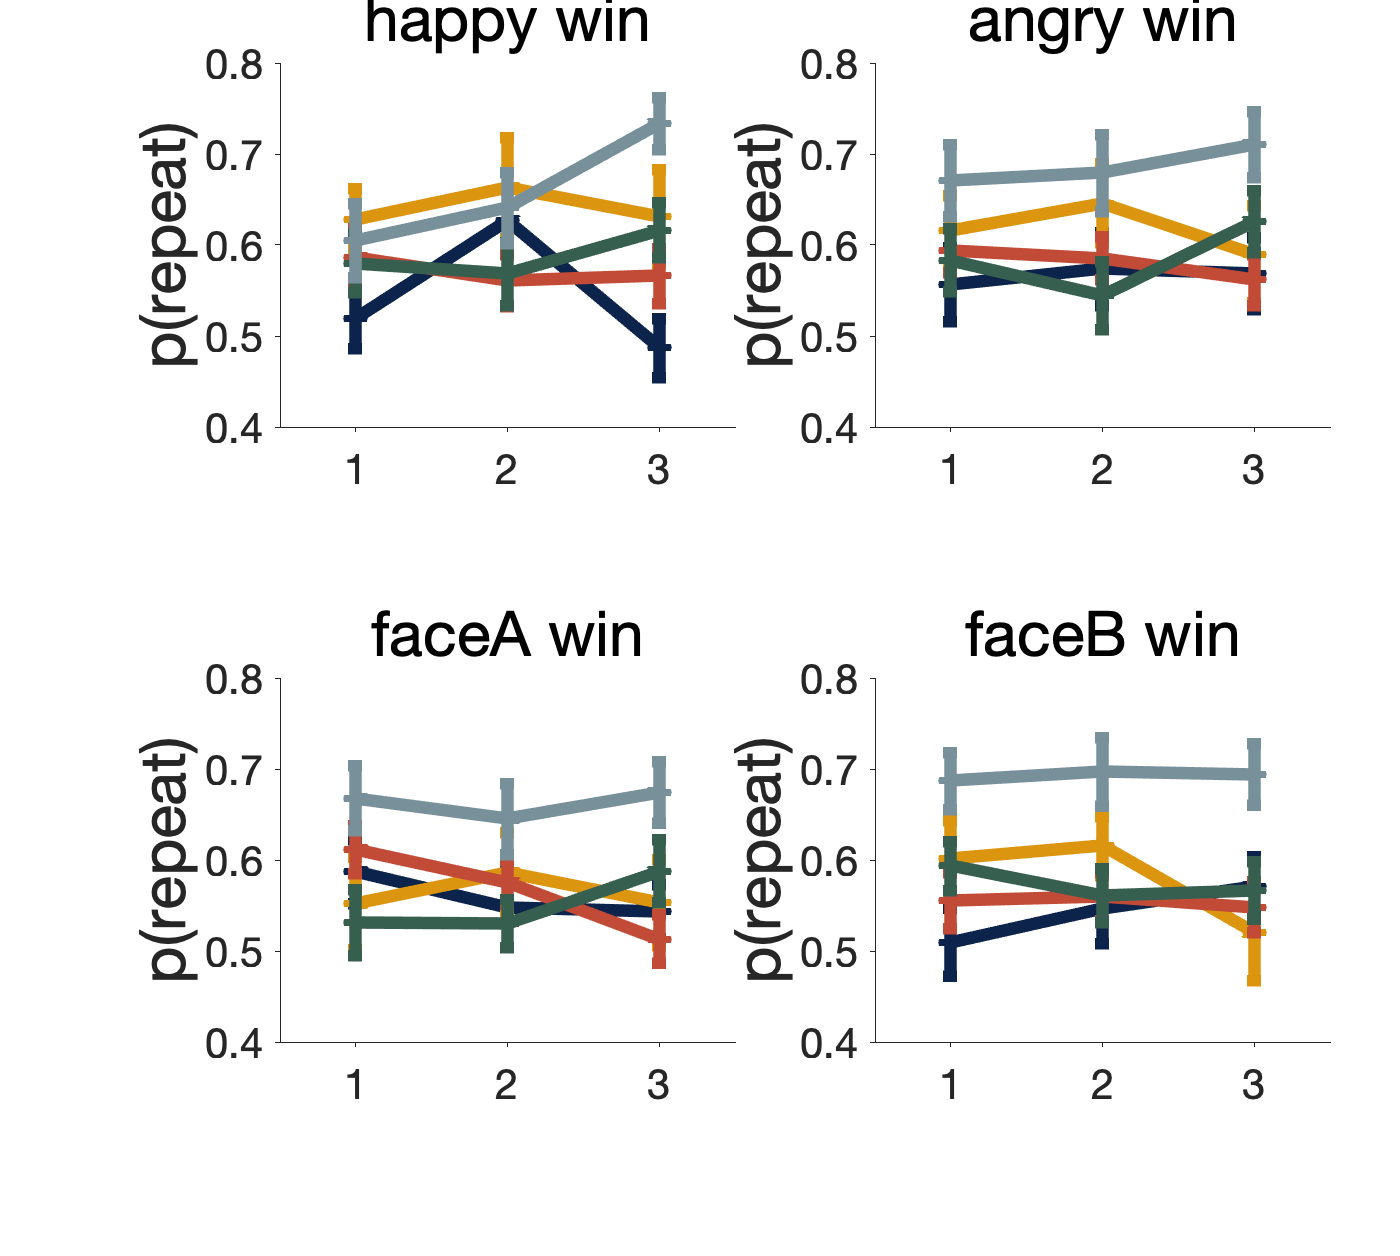
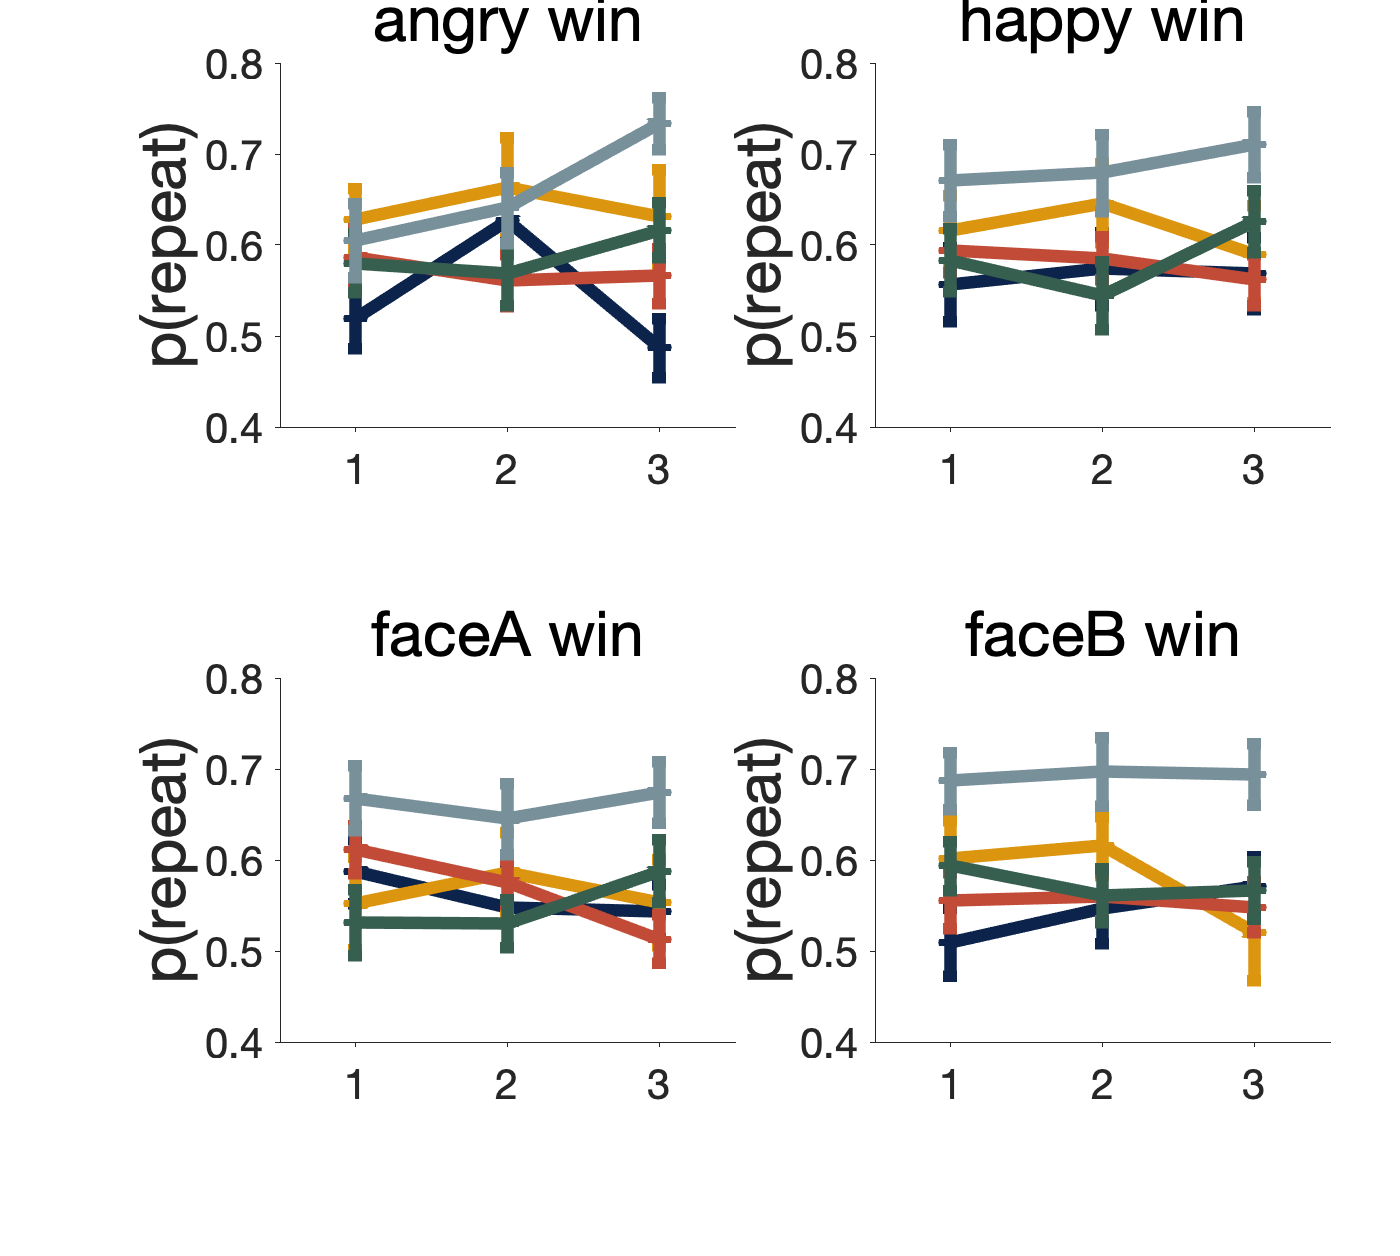
04/21

Changed region(s): [[0.6757, 0.0, 0.8907, 0.0621], [0.2457, 0.0, 0.4607, 0.0621]]

diff --git a/codes/main_behavior.m b/codes/main_behavior.m
@@ -45,6 +45,18 @@ for i = 1:2
 end
 plt.update;
 plt.save('prepeat');
+%% repeat by image
+plt.figure(2,2);
+plt.setfig('ylim', [0.4 0.8], 'xlim', [0.5 3.5], ...
+    'color', cols, 'xlabel', 'bin #', 'ylabel', 'p(repeat)', 'title', blocktype);
+for i = 1:2
+    plt.ax(1,i);
+    plt.setfig_ax('legend', gpname(btid{i}));
+    tgp = gp(btid{i},:);
+    plt.lineplot(tgp.av_bin_all_c_repeat, tgp.ste_bin_all_c_repeat);
+end
+plt.update;
+plt.save('prepeat_bygp');
 %% figure p(ac)
 plt.figure(1,2);
 plt.setfig('ylim', [0.4 0.75], 'xlim', [0.5 3.5], ...
@@ -129,7 +141,7 @@ plt.save('p_memory');
 plt.figure(2,2,'gap',[0.2,0.1]);
 plt.setfig('ylim', [0.4 0.8], 'xlim', [0.5 3.5], ...
     'color', cols, ...
-    'xlabel', '', 'title', {'happy win','angry win', ...
+    'xlabel', '', 'title', {'angry win','happy win', ...
     'faceA win','faceB win'}, ...
     'ylabel', 'p(repeat)', ...
     'legloc', {'SouthWest'});
@@ -147,6 +159,49 @@ end
 plt.update;
 plt.save('p_em');
 
+%% split by which wins
+plt.figure(2,2,'gap',[0.2,0.1]);
+plt.setfig('ylim', [0.4 0.8], 'xlim', [0.5 3.5], ...
+    'color', cols, ...
+    'xlabel', '', 'title', {'angry win','happy win', ...
+    'faceA win','faceB win'}, ...
+    'ylabel', 'p(correct)', ...
+    'legloc', {'SouthWest'});
+for i = 1:2
+    for j = 1:2
+        tgp = gp(btid{j},:);
+        plt.ax(j,i);
+        av = W.cellfun(@(x)x(i,:), tgp.av_bygp_bin_all_c_ac_X);
+        av = vertcat(av{:});
+        se = W.cellfun(@(x)x(i,:), tgp.ste_bygp_bin_all_c_ac_X)
+        se = vertcat(se{:});
+        plt.lineplot(av, se);
+    end
+end
+plt.update;
+plt.save('p_ac');
+
+%% split by which wins
+plt.figure(2,2,'gap',[0.2,0.1]);
+plt.setfig('ylim', [0.2 0.8], 'xlim', [0.5 3.5], ...
+    'color', cols, ...
+    'xlabel', '', 'title', {'angry win','happy win', ...
+    'faceA win','faceB win'}, ...
+    'ylabel', 'p(choice)', ...
+    'legloc', {'SouthWest'});
+for i = 1:2
+    for j = 1:2
+        tgp = gp(btid{j},:);
+        plt.ax(j,i);
+        av = W.cellfun(@(x)x(i,:), tgp.av_bygp_bin_all_c_X);
+        av = vertcat(av{:});
+        se = W.cellfun(@(x)x(i,:), tgp.ste_bygp_bin_all_c_X)
+        se = vertcat(se{:});
+        plt.lineplot(av, se);
+    end
+end
+plt.update;
+plt.save('c');
 
 
 

diff --git a/codes/figure_bayesian.m b/codes/figure_bayesian.m
@@ -45,11 +45,12 @@ plt.lineplot(dic(:, 1)');
 set(gca, 'XTickLabelRotation', 45);
 plt.update;
 %%
-plt.figure(7, 2);
+plt.figure(7, 2, 'rect', [0 0 0.5 0.9], 'gap',[0.05 0.08], ...
+    'margin', [0.12 0.15 0.03 0.05]);
 plt.param_figsetting.linewidth = 2;
 name = {'alpha1_n','alpha2_n','alphal1_n','alphal2_n', 'bias_n', 'fr', 'noise'};
 xb = {[-10:0.01:10],[-10:0.01:10],[-10:0.01:10],[-10:0.01:10], [-10:0.01:10], [-10:0.01:10], [0:.2:100]};
-xlm = {[-1.5,1.5],[-1.5,1.5],[-1.5,1.5],[-1.5,1.5], [-1,1], [-0.1,1.1], [0,100]};
+xlm = {[-1.5,1.5],[-1.5,1.5],[-1.5,1.5],[-1.5,1.5], [-0.3,0.3], [-0.1,1.1], [0,100]};
 legs = {'h1','h2','l1','l2','hc'};
 for fi = 1:7
     for i = 1:2
@@ -70,6 +71,42 @@ for fi = 1:7
              te(di,:) = hist(reshape(tt(:,:, i), 1, []), xb{fi});
         end
         plt.lineplot(te,[], xb{fi});
+    end
+end
+plt.update;
+plt.save('temp')
+%% learning rates
+
+plt.figure(7, 2, 'rect', [0 0 0.5 0.9], 'gap',[0.01 0.08], ...
+    'margin', [0.12 0.15 0.03 0.05]);
+plt.param_figsetting.linewidth = 2;
+name = {'alpha1_n','alpha2_n','alphal1_n','alphal2_n', 'bias_n', 'fr', 'noise'};
+ylm = {[0 15],[0 15],[-2 5],[-2 5],[-2 10], [0 1], [0 100]};
+xlm = [0.5,5.5];
+legs = {'h1','h2','l1','l2','hc'};
+for fi = 1:7
+    for i = 1:2
+        plt.ax(fi,i);
+        plt.setfig_ax('xlim', xlm, 'ylabel', name{fi}, ...
+            'ylim', ylm{fi});
+        if (fi == 7) 
+            plt.setfig_ax('xtick',1:5,'xticklabel', legs);
+        else
+            plt.setfig_ax('xticklabel', '');
+        end
+        te = [];
+        for di = 1:nd
+            if strcmp(name{fi}, 'noise')
+                tt = sp{di}.noise_k./sp{di}.noise_lambda;
+                tt = reshape(tt(:,:,i),[],1);
+                tt = mean(tt);
+            else
+                tt = stat{di}.mean.(name{fi});
+                tt = tt(i);
+            end
+            te(di,:) = tt;
+        end
+        plt.lineplot(te',[]);
     end
 end
 plt.update;
